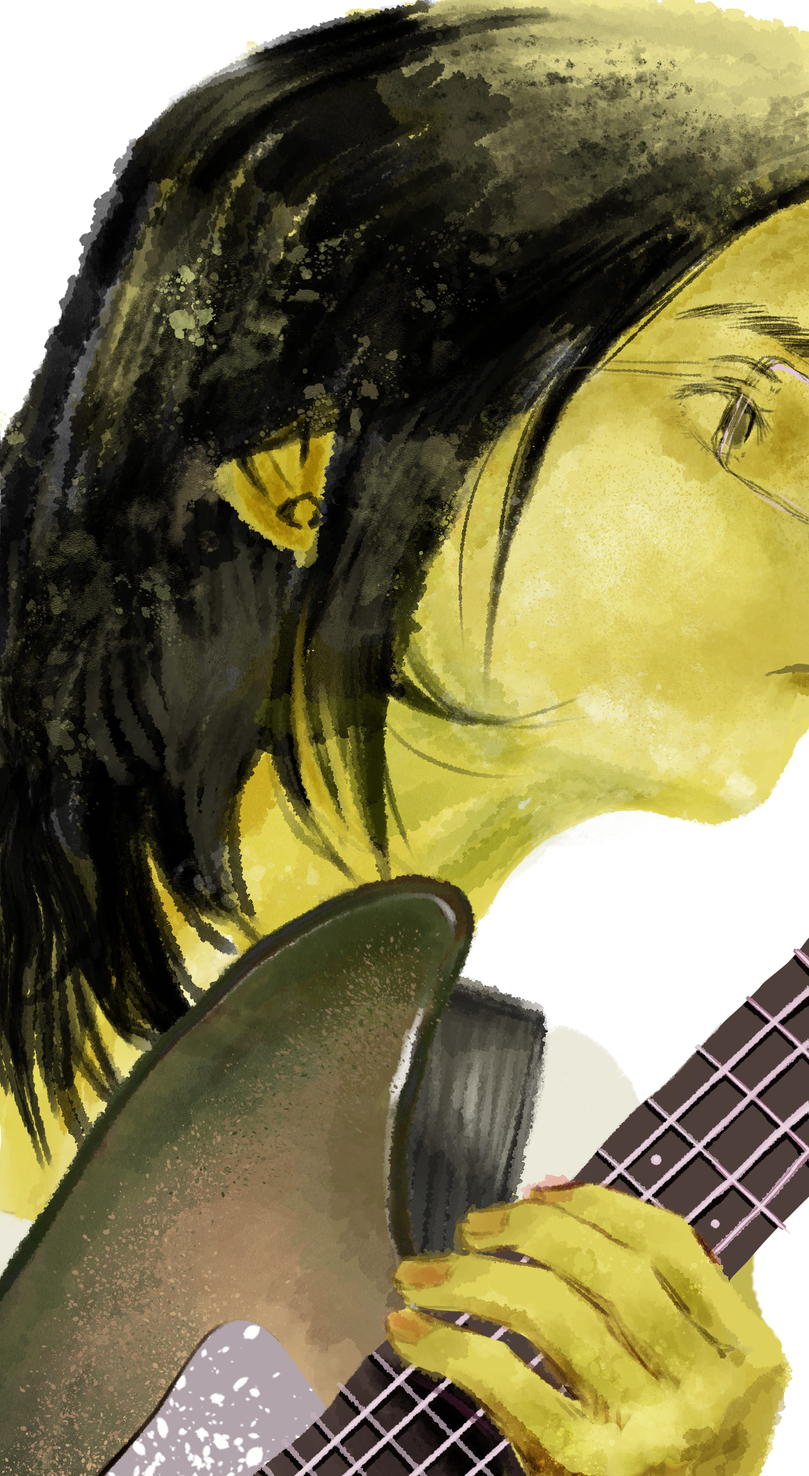
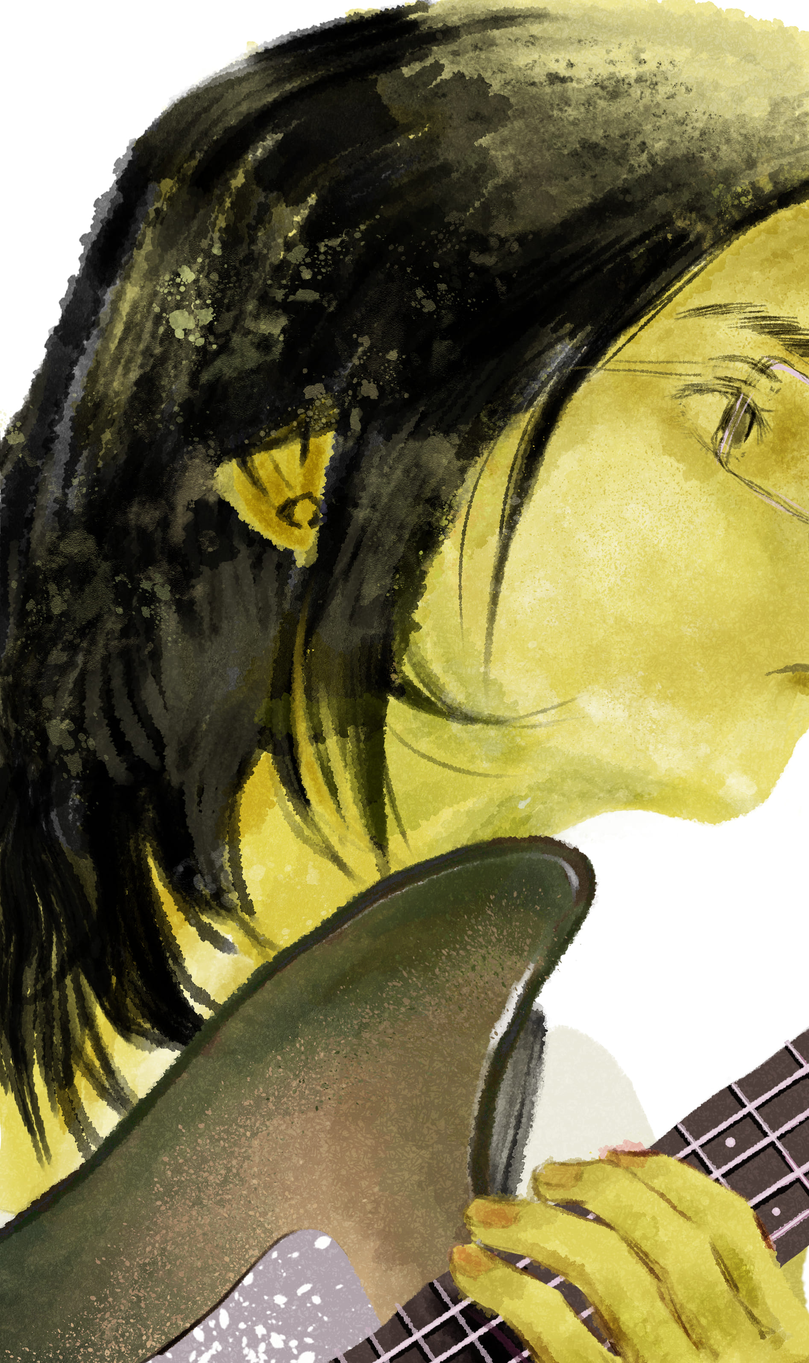
fix(play): GUITAR 이미지 교체 및 불필요한 파일 삭제

diff --git a/src/app/[locale]/play/playItemsData.ts b/src/app/[locale]/play/playItemsData.ts
@@ -17,7 +17,7 @@ const playItems: PlayItemListType = [
     items: [
       {
         width: 644,
-        height: 1175,
+        height: 1085,
         imgUrl: PlayImages.Play7_2,
       },
     ],
